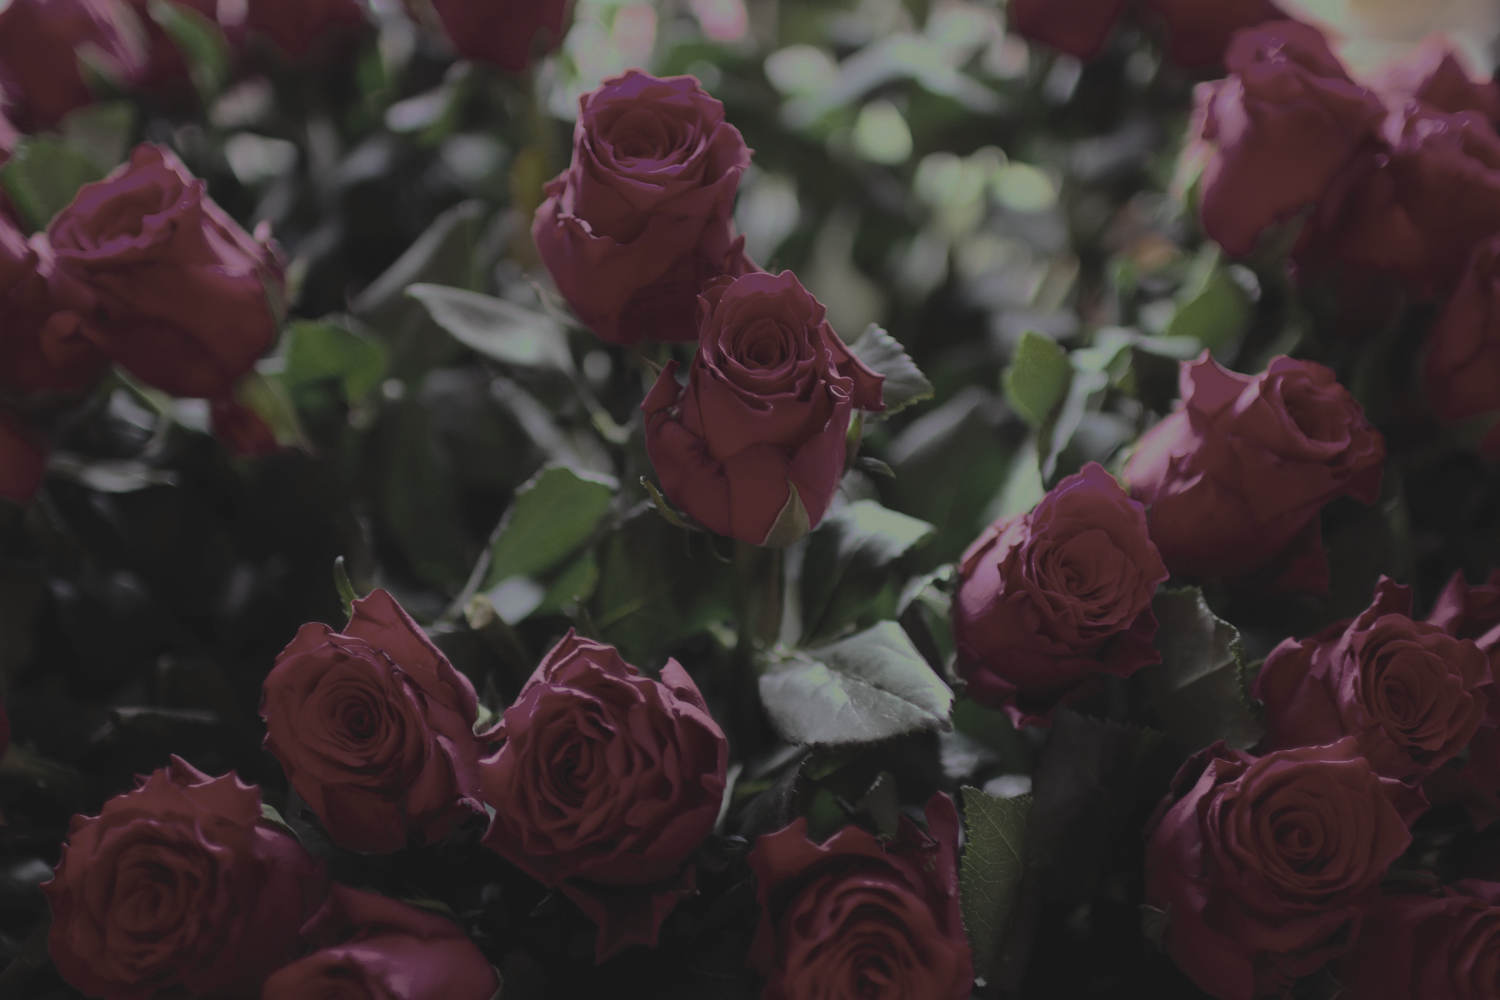
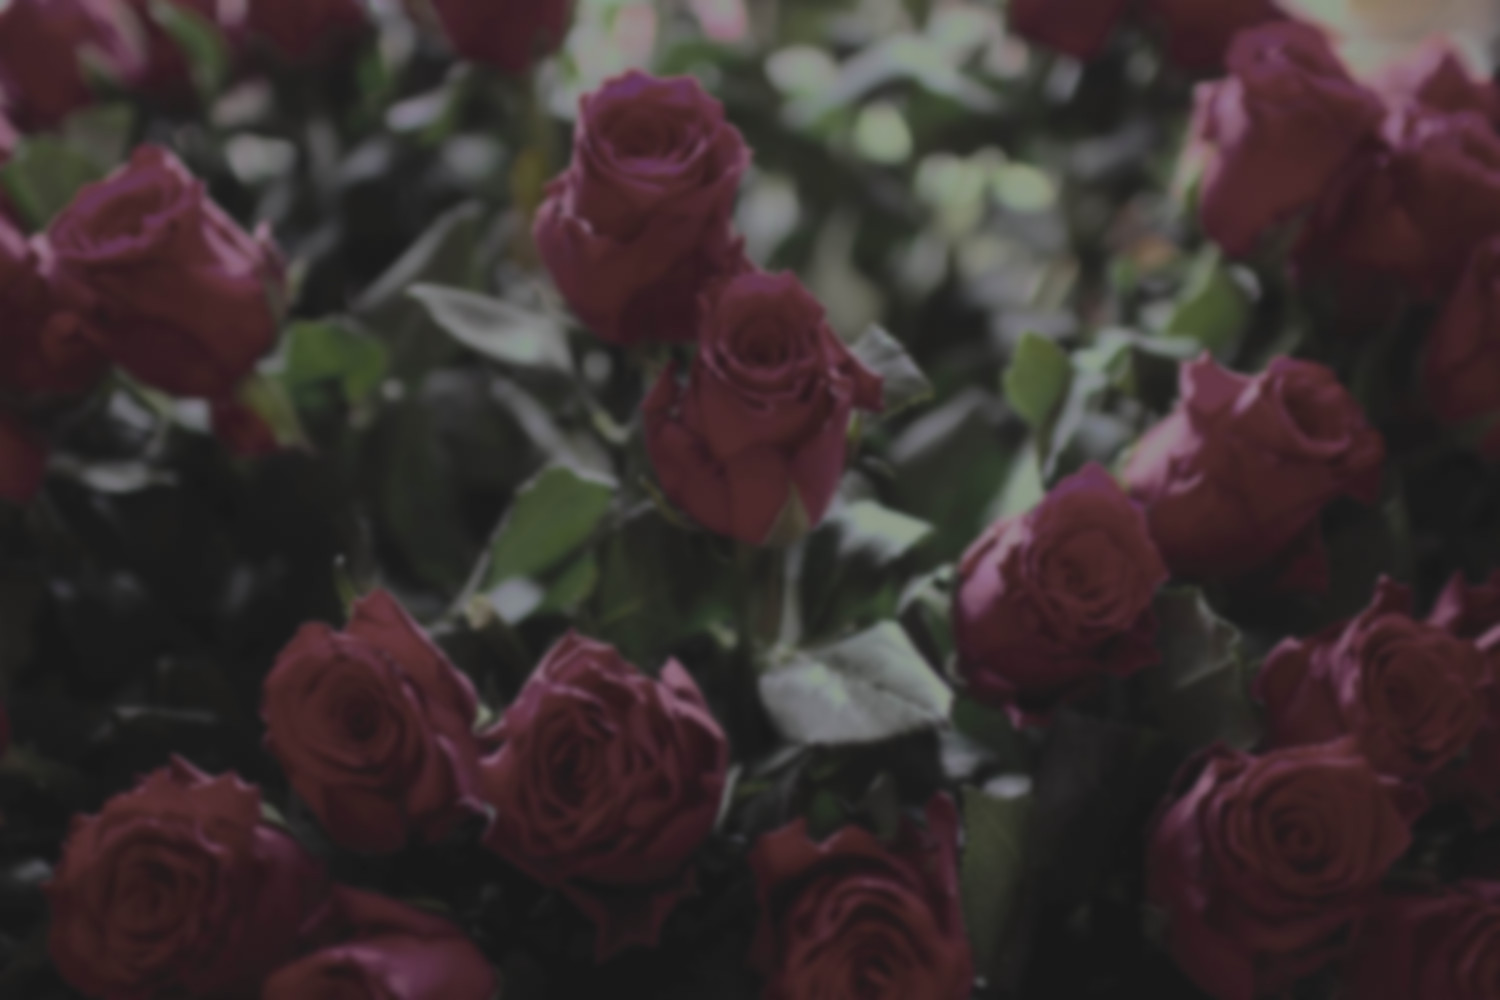
De index had nog niet genoeg effecten

diff --git a/static/style/index.css b/static/style/index.css
@@ -2,45 +2,21 @@ body {
 	position: relative;
 }
 
-#header {
-	text-align: center;
-	background: #e67e22;
-	color: white;
-	position: fixed;
-	z-index: 10;
-	width: 100%;
-	top: 0;
-	left: 0;
-}
-
-#header ul {
-	margin: 0;
-	list-style-type: none;
-}
-
-#header ul li {
-	display: inline;
-	padding: 10px;
-	margin: 10px 20px;
-	line-height: 4em;
-}
-
-#header a {
-	color: inherit;
-	text-decoration: none;
-	display: inline;
-}
-
 #landingBack, #hurrytheforkup {
-	background: url("../images/background.jpg");
-	background-size: cover;
-	background-position: center center;
 	z-index: 0;
 	padding-top: 200px;
 	height: calc(100vh - 200px);
 	width: 100vw;
 	color: #ffb033;
 	text-align: center;
+}
+
+#landingBack {
+	background: url("../images/background.jpg");
+	background-size: cover;
+	background-position: center center;
+	-webkit-animation: pulse 4s infinite;
+	animation: pulse 4s infinite;
 }
 
 #landingBack span {
@@ -74,6 +50,48 @@ body {
 #landingBack button:hover {
 	padding: 18px;
 	font-size: 25px;
+}
+
+@-webkit-keyframes pulse {
+	0% {
+		-webkit-filter: saturate(80%);
+	}
+	10% {
+		-webkit-filter: saturate(100%);
+	}
+	20% {
+		-webkit-filter: saturate(80%);
+	}
+	30% {
+		-webkit-filter: saturate(100%);
+	}
+	40% {
+		-webkit-filter: saturate(80%);
+	}
+	100% {
+		-webkit-filter: saturate(80%);
+	}
+}
+
+@keyframes pulse {
+	0% {
+		filter: saturate(80%);
+	}
+	10% {
+		filter: saturate(100%);
+	}
+	20% {
+		filter: saturate(80%);
+	}
+	30% {
+		filter: saturate(100%);
+	}
+	40% {
+		filter: saturate(80%);
+	}
+	100% {
+		filter: saturate(80%);
+	}
 }
 
 #explanation {

diff --git a/static/style/global.css b/static/style/global.css
@@ -4,3 +4,32 @@ body {
 	font-family: 'Open Sans', sans-serif;
 	overflow-x: hidden;
 }
+
+#header {
+	text-align: center;
+	background: #e67e22;
+	color: white;
+	position: fixed;
+	z-index: 10;
+	width: 100%;
+	top: 0;
+	left: 0;
+}
+
+#header ul {
+	margin: 0;
+	list-style-type: none;
+}
+
+#header ul li {
+	display: inline;
+	padding: 10px;
+	margin: 10px 20px;
+	line-height: 4em;
+}
+
+#header a {
+	color: inherit;
+	text-decoration: none;
+	display: inline;
+}

diff --git a/index.php b/index.php
@@ -69,7 +69,7 @@
 			<img src="static/images/person.png">
 		</div>
 	</div>
-	<div id="hurrytheforkup">
+	<div id="hurrytheforkup" data-bottom-top="background-position: 0% 15%;" data-bottom="background-position: 0% 28%;">
 		<div>
 			Stop met <span id="opp">worteltrekken</span>, <a href="/register.php">registreer nu</a>.
 		</div>
